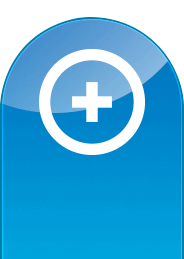
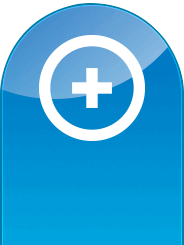
下注按钮

Changed region(s): [[0.0, 0.0, 1.0, 0.6]]

diff --git a/static/css/page.css b/static/css/page.css
@@ -656,11 +656,11 @@ i.index_s.index_s04 { background-position-y: -7.2rem; margin-top: .2rem; }
 
 .so-foot > div:last-child { width: 5rem; position: fixed; bottom: 0; right: -2rem; }
 
-.so-foot > div:last-child > div { position: relative; width: 1.9rem; height: 2.8rem; background: url("../images/foot/tj-pg.png") no-repeat; background-size: 100%; background-position-y: 0.3rem; }
+.so-foot > div:last-child > div { position: relative; width: 1.9rem; height: 2.6rem; background: url("../images/foot/tj-pg.png") no-repeat; background-size: 100%; background-position-y: 0.1rem; }
 
 .so-foot > div:last-child > div img { width: 1.2rem; position: relative; top: 0.8rem; }
 
-.so-foot > div:last-child > div p { color: #fff; font-size: 0.42rem; position: relative; top: 2.1rem; font-weight: 700; }
+.so-foot > div:last-child > div p { color: #fff; font-size: 0.42rem; position: relative; top: 1.9rem; font-weight: 700; }
 
 .so-foot.close > div:first-child { background-color: #404040; }
 

diff --git a/static/css/_style.css b/static/css/_style.css
@@ -238,11 +238,11 @@
 
 .so-foot > div:last-child { width: 5rem; position: fixed; bottom: 0; right: -2rem; }
 
-.so-foot > div:last-child > div { position: relative; width: 1.9rem; height: 2.8rem; background: url("../images/foot/tj-pg.png") no-repeat; background-size: 100%; background-position-y: 0.3rem; }
+.so-foot > div:last-child > div { position: relative; width: 1.9rem; height: 2.6rem; background: url("../images/foot/tj-pg.png") no-repeat; background-size: 100%; background-position-y: 0.1rem; }
 
 .so-foot > div:last-child > div img { width: 1.2rem; position: relative; top: 0.8rem; }
 
-.so-foot > div:last-child > div p { color: #fff; font-size: 0.42rem; position: relative; top: 2.1rem; font-weight: 700; }
+.so-foot > div:last-child > div p { color: #fff; font-size: 0.42rem; position: relative; top: 1.9rem; font-weight: 700; }
 
 .so-foot.close > div:first-child { background-color: #404040; }
 

diff --git a/static/scss/_style.scss b/static/scss/_style.scss
@@ -840,10 +840,10 @@
         > div {
             position: relative;
             width: 1.9rem;
-            height: 2.8rem;
+            height: 2.6rem;
             background: url('../images/foot/tj-pg.png') no-repeat;
             background-size: 100%;
-            background-position-y: 0.3rem;
+            background-position-y: 0.1rem;
             img {
                 width: 1.2rem;
                 position: relative;
@@ -853,7 +853,7 @@
                 color: #fff;
                 font-size: 0.42rem;
                 position: relative;
-                top: 2.1rem;
+                top: 1.9rem;
                 font-weight: 700;
             }
         }
